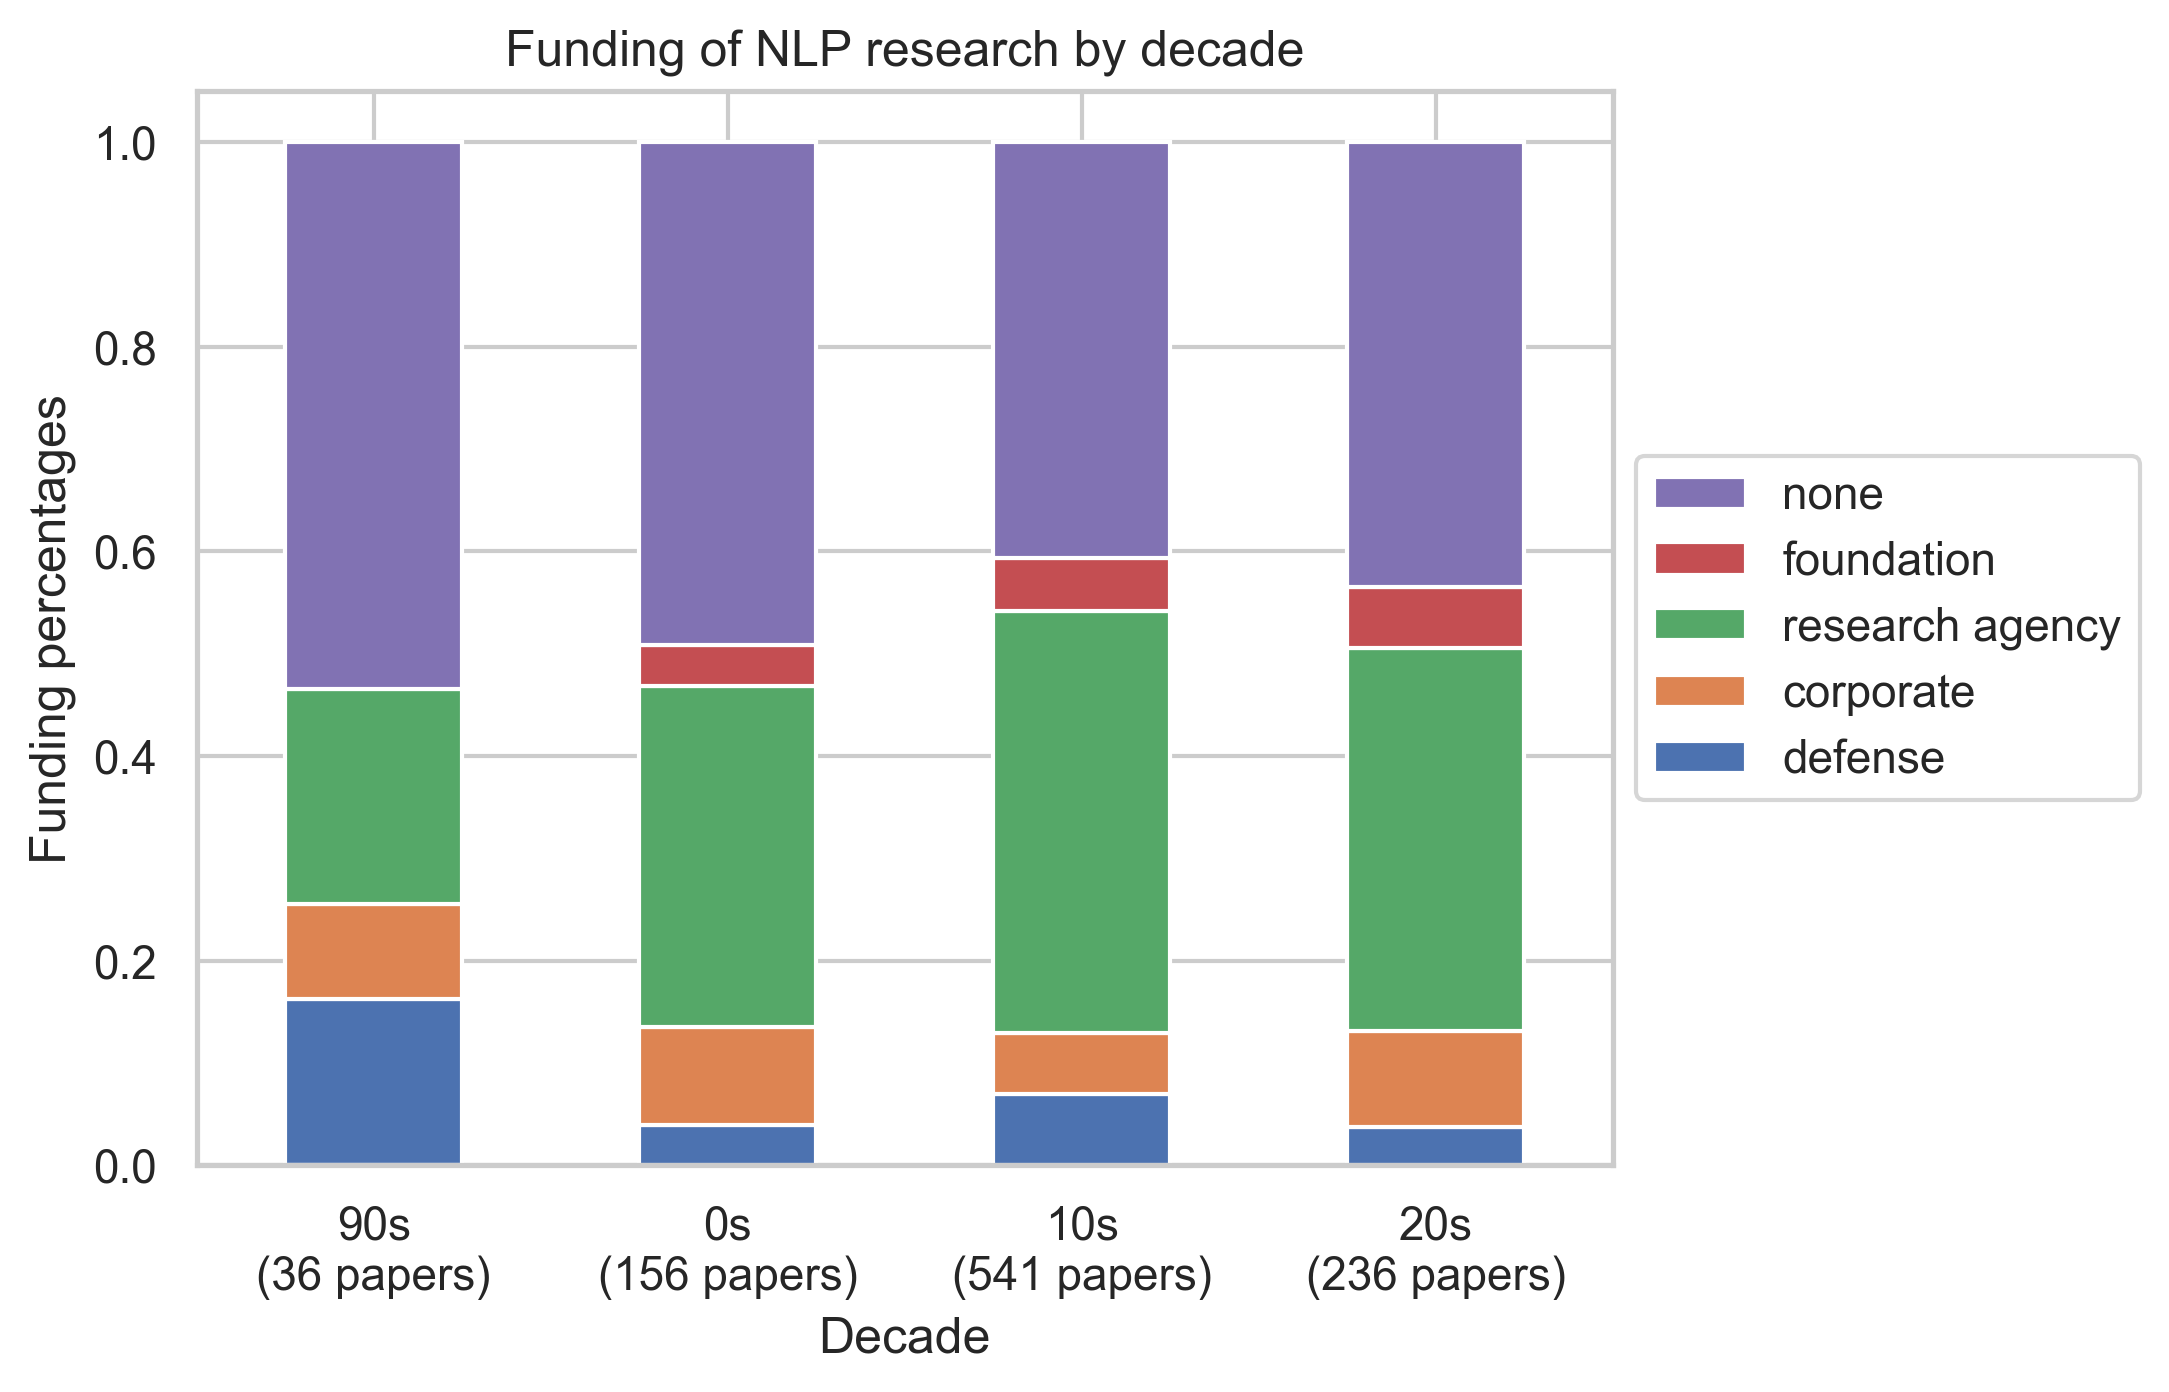
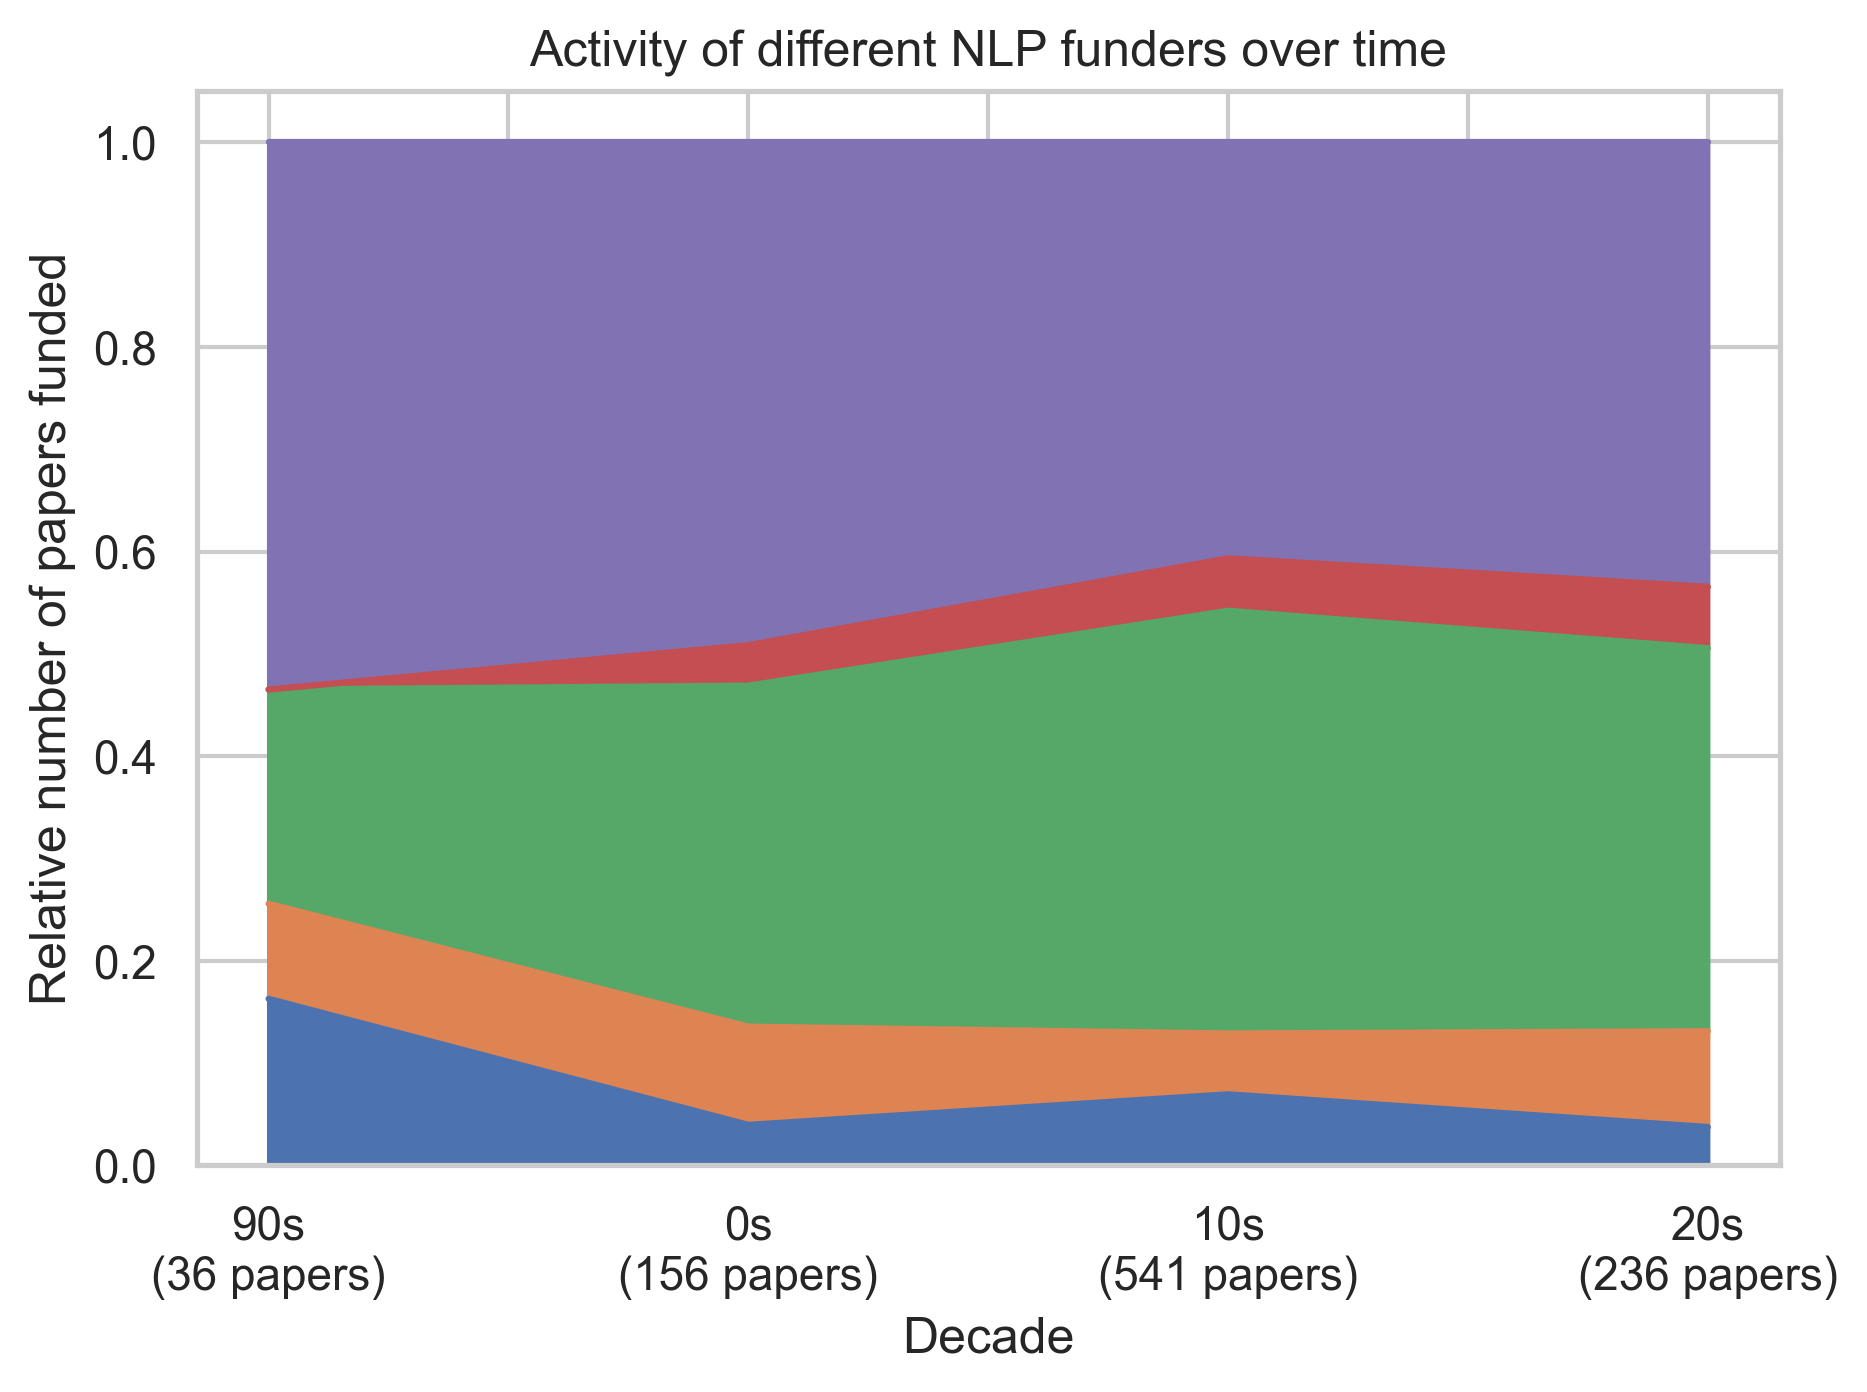
funding pic

diff --git a/analyze.py b/analyze.py
@@ -29,6 +29,8 @@ for file in glob('data/*.json'):
 
 df = pd.DataFrame(data)
 
+fig, (ax1, ax2) = plt.subplots(1, 2, figsize=(10, 5))
+
 # -----------------------------------------------------------------------------
 # funding by year
 # -----------------------------------------------------------------------------
@@ -44,25 +46,26 @@ decade_order = [80, 90, 0, 10, 20]
 mapping = {day: i for i, day in enumerate(decade_order)}
 key = funding_year.index.map(mapping)
 funding_year = funding_year.iloc[key.argsort()]
-funding_year.index = funding_year.index.map(lambda x: f'{x}s\n({totals[x]} papers)')
+funding_year.index = funding_year.index.map(lambda x: f'{x:0{2}}s\n({totals[x]} papers)')
 
 # stacked barplot
-funding_year.plot(kind='bar', stacked=True, rot=0)
+funding_year.plot(kind='area', stacked=True, rot=0, ax=ax1)
 
-plt.title('Funding of NLP research by decade')
-plt.xlabel('Decade')
-plt.ylabel('Funding percentages')
+ax1.set_title('Activity of different NLP funders over time')
+ax1.set_xlabel('Decade')
+ax1.set_ylabel('Relative number of papers funded')
 
 # show legend outside of plot
-ax = plt.gca()
-box = ax.get_position()
-ax.set_position([box.x0, box.y0, box.width * 0.8, box.height])
-handles, labels = ax.get_legend_handles_labels()
-ax.legend(handles[::-1], labels[::-1], loc='center left', bbox_to_anchor=(1, 0.5))
+# ax = plt.gca()
+# box = ax.get_position()
+# ax.set_position([box.x0, box.y0, box.width * 0.8, box.height])
+# handles, labels = ax.get_legend_handles_labels()
+# ax.legend(handles[::-1], labels[::-1], loc='center left', bbox_to_anchor=(1, 0.5))
+ax1.legend().remove()
 
-plt.tight_layout()
-plt.savefig('img/funding_by_decade.png', dpi=300, bbox_inches='tight')
-plt.clf()
+# plt.tight_layout()
+# plt.savefig('img/funding_by_decade.png', dpi=300, bbox_inches='tight')
+# plt.clf()
 
 # -----------------------------------------------------------------------------
 # funding by citation count
@@ -93,22 +96,22 @@ funding_citations = funding_citations.iloc[key.argsort()]
 funding_citations.index = funding_citations.index.map(lambda x: f'{x}\n({totals[x]} papers)')
 
 # stacked barplot
-funding_citations.plot(kind='bar', stacked=True, rot=0)
+funding_citations.plot(kind='area', stacked=True, rot=0, ax=ax2)
 
-plt.title('Funding of influential NLP research')
-plt.xlabel('Citation count')
-plt.ylabel('Funding percentages')
+ax2.set_title('Funding of influential NLP research')
+ax2.set_xlabel('Citation count')
+# ax2.set_ylabel('Funding percentages')
 
 # show legend outside of plot
-ax = plt.gca()
-box = ax.get_position()
-ax.set_position([box.x0, box.y0, box.width * 0.8, box.height])
-handles, labels = ax.get_legend_handles_labels()
-ax.legend(handles[::-1], labels[::-1], loc='center left', bbox_to_anchor=(1, 0.5))
+# ax = plt.gca()
+box = ax2.get_position()
+ax2.set_position([box.x0, box.y0, box.width * 0.8, box.height])
+handles, labels = ax2.get_legend_handles_labels()
+ax2.legend(handles[::-1], labels[::-1], loc='center left', bbox_to_anchor=(1, 0.5))
 
 plt.tight_layout()
-plt.savefig('img/funding_by_citations.png', dpi=300, bbox_inches='tight')
-plt.clf()
+plt.savefig('img/funding.png', dpi=300, bbox_inches='tight')
+# plt.clf()
 
 # totals = df.groupby('decade')[labels].count()
 # funding_citations['total'] = totals
